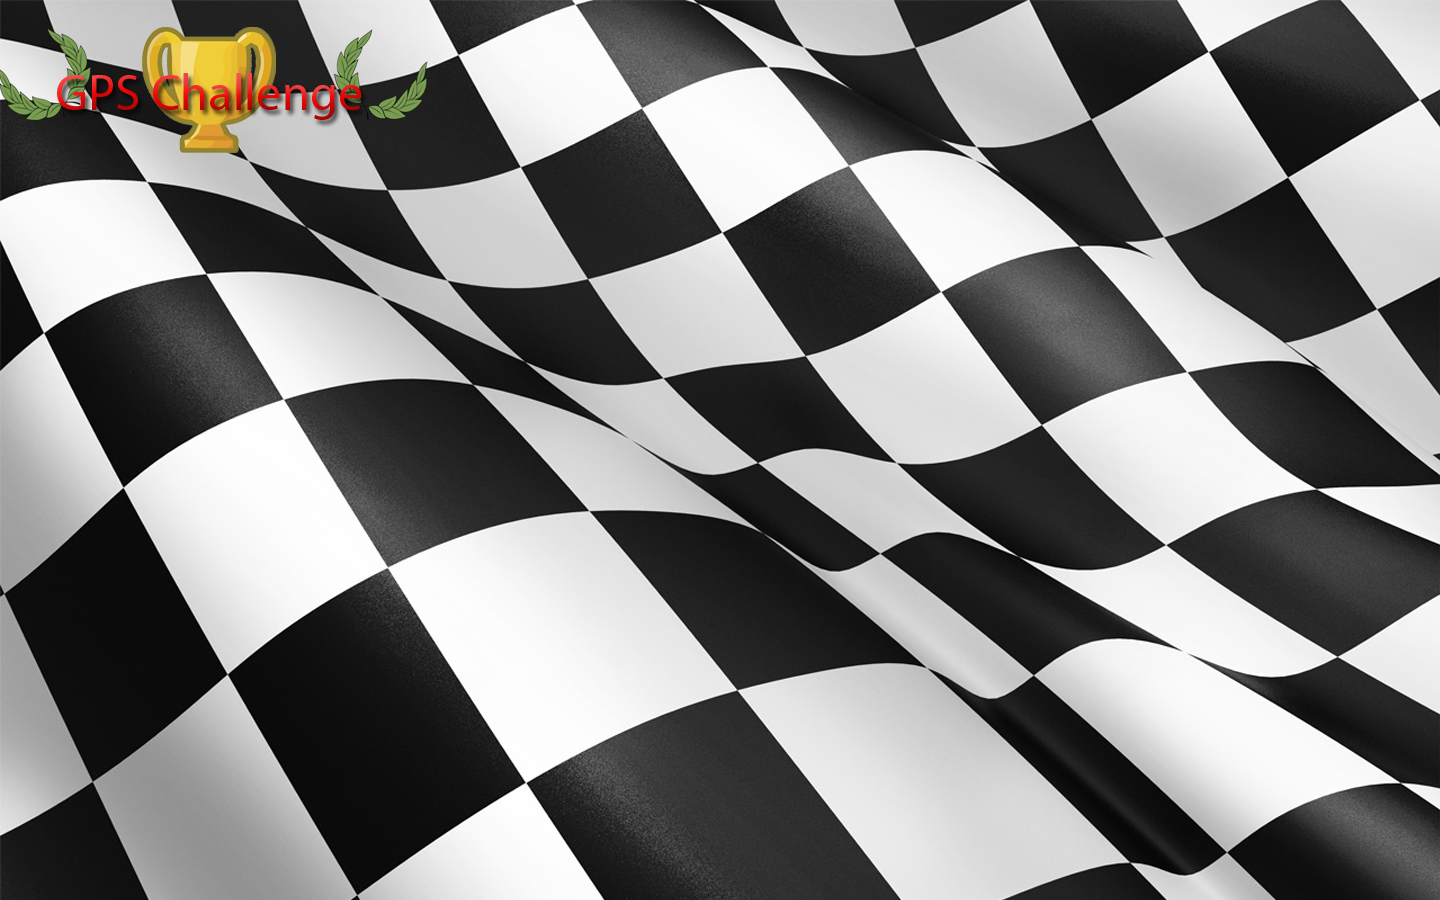
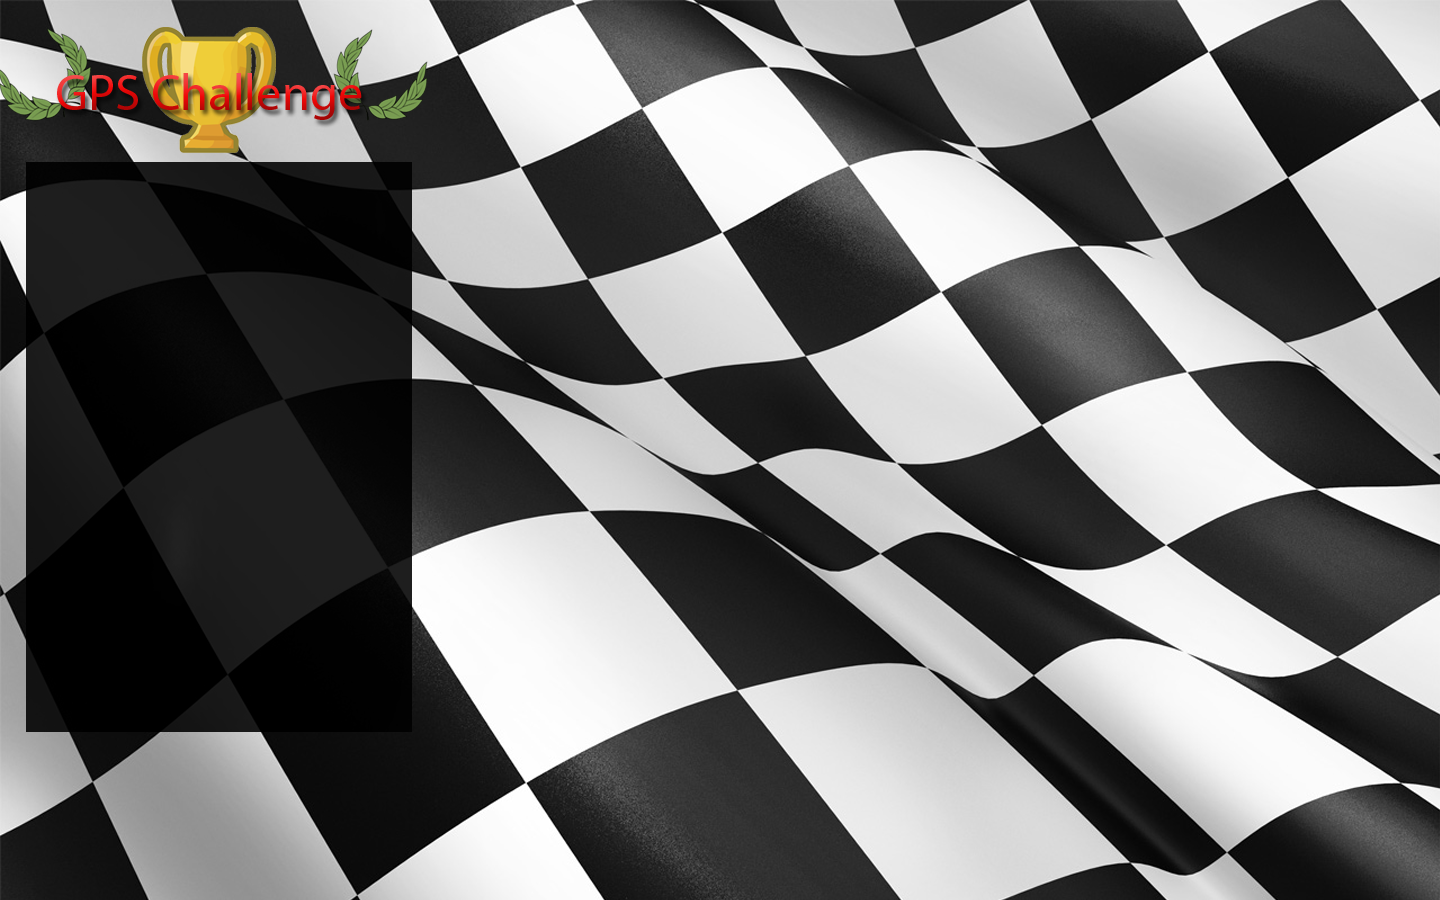
Actualizando un poco la vista de los menues

Changed region(s): [[0.0, 0.1556, 0.3125, 0.84], [0.0, 0.7156, 0.0625, 0.8089]]

diff --git a/src/fiuba/algo3/control/gpsChallenge.java b/src/fiuba/algo3/control/gpsChallenge.java
@@ -49,18 +49,18 @@ public class gpsChallenge {
         /** Stage 1 : Eleccion Usuario --------------------------------------------------------------------**/
 
         /** boton Soy Nuevo -> stage 1.A **/
-        Boton botonSoyNuevo = new BotonSoyNuevo(unMarco,30,150,369,80);
+        Boton botonSoyNuevo = new BotonSoyNuevo(unMarco,35,170,369,80);
         botonSoyNuevo.setVisible(true);
 
 
         /** boton Ingresar Usuario -> stage 1.B **/
-        Boton botonIngresarUsuario = new BotonIngresarUsuario(unMarco,30,250,369,80);
+        Boton botonIngresarUsuario = new BotonIngresarUsuario(unMarco,35,280,369,80);
         botonIngresarUsuario.setVisible(true);
 
         /** Stage 1.A : Usuario Nuevo ----------------------------------**/
 
         /** texto mensajeParaUsuarioNuevo **/
-        Texto mensajeParaUsuarioNuevo = new Texto(unMarco,40,200,380,40);
+        Texto mensajeParaUsuarioNuevo = new Texto(unMarco,35,200,380,40);
         mensajeParaUsuarioNuevo.setMensaje("Por favor, eliga un nombre (10 caracteres max)");
         // ponerle color, o reemplazar por imagen
         mensajeParaUsuarioNuevo.setVisible(false);
@@ -70,7 +70,7 @@ public class gpsChallenge {
         areaIngresoNombreDelUsuario.setVisible(false);
 
         /** botonGuardar -> stage 2 **/
-        Boton botonGuardar = new BotonGuardar(unMarco,30,300,369,80);
+        Boton botonGuardar = new BotonGuardar(unMarco,35,325,369,80);
         botonGuardar.setVisible(false);
 
         /** Stage 1.B : Cargar Usuario ----------------------------------**/
@@ -87,41 +87,41 @@ public class gpsChallenge {
         boxUsuariosExistentes.setVisible(false);
 
         /** botonAceptar -> stage 2 **/
-        Boton botonAceptar = new BotonAceptar (unMarco,30,400,369,80);
+        Boton botonAceptar = new BotonAceptar (unMarco,35,400,369,80);
         botonAceptar.setVisible(false);
 
 
         /** Stage 2 : Menu Principal --------------------------------------------------------------------**/
 
         /** botonComenzarPartida -> stage 2.A **/
-        Boton botonComenzarPartida = new BotonComenzarPartida(unMarco,30,150,369,80);
+        Boton botonComenzarPartida = new BotonComenzarPartida(unMarco,35,170,369,80);
         botonComenzarPartida.setVisible(false);
 
         /** botonReanudarPartidaGuardada -> carga Xmlmapa y acciona el juego **/
         /** todo **/
-        Boton botonReanudarPartidaGuardada = new BotonReanudarPartidaGuardada(unMarco,30,250,369,80);
+        Boton botonReanudarPartidaGuardada = new BotonReanudarPartidaGuardada(unMarco,35,280,369,80);
         botonReanudarPartidaGuardada.setVisible(false);
 
         /** botonVerPuntajes -> stage 2.B **/
-        Boton botonVerPuntajes = new BotonVerPuntajes(unMarco,30,350,369,80);
+        Boton botonVerPuntajes = new BotonVerPuntajes(unMarco,35,390,369,80);
         botonVerPuntajes.setVisible(false);
 
         /** Stage 2.A : Eleccion Mapa y Carruaje ----------------------------------**/
 
         /** checkBoxEleccionMapa **/
-        BoxEleccionMapa boxEleccionMapa = new BoxEleccionMapa(unMarco,200,165,100,60);
+        BoxEleccionMapa boxEleccionMapa = new BoxEleccionMapa(unMarco,250,170,100,60);
         boxEleccionMapa.setVisible(false);
 
         /** checkBoxEleccionVehiculo **/
-        BoxEleccionVehiculo boxEleccionVehiculo = new BoxEleccionVehiculo(unMarco,30,165,150,60);
+        BoxEleccionVehiculo boxEleccionVehiculo = new BoxEleccionVehiculo(unMarco,40,170,150,60);
         boxEleccionVehiculo.setVisible(false);
 
         /** botonJugar -> acciona el juego, pasa al stage 3 **/
-        Boton botonJugar = new BotonJugar(unMarco,30,370,369,80);
+        Boton botonJugar = new BotonJugar(unMarco,35,400,369,80);
         botonJugar.setVisible(false);
 
         /** botonVolver Stage 2.A --> Stage 2, Menu Principal**/
-        Boton botonVolverAlMenuPrincipalDesdeEleccionMapaYVehiculo = new BotonVolver(unMarco,30,580,369,80);
+        Boton botonVolverAlMenuPrincipalDesdeEleccionMapaYVehiculo = new BotonVolver(unMarco,35,640,369,80);
         botonVolverAlMenuPrincipalDesdeEleccionMapaYVehiculo.setVisible(false);
 
 
@@ -135,7 +135,7 @@ public class gpsChallenge {
         boxUsuariosConPuntajes.setVisible(false);
 
         /** botonVolverAlMenuPrincipalDesdePuntajes Stage 2.A --> Stage 2, Menu Principal**/
-        Boton botonVolverAlMenuPrincipalDesdePuntajes = new BotonVolver(unMarco,30,580,369,80);
+        Boton botonVolverAlMenuPrincipalDesdePuntajes = new BotonVolver(unMarco,35,640,369,80);
         botonVolverAlMenuPrincipalDesdePuntajes .setVisible(false);
 
 
@@ -145,13 +145,17 @@ public class gpsChallenge {
         /** botonAnimadoCronometro **/
 
         /** vistaCronometro **/
-        VistaCronometro vistaCronometro = new VistaCronometro(unJuego.getPiloto().getCronometro(),unMarco,100,500,300,40);
+        Texto textoCronometro = new Texto(unMarco,40,170,380,40);
+        textoCronometro.setMensaje("Tiempo");
+        textoCronometro.setVisible(false);
+
+        VistaCronometro vistaCronometro = new VistaCronometro(unJuego.getPiloto().getCronometro(),unMarco,100,220,300,40);
         unJuego.asignarVistaAlCronometro(vistaCronometro);
         vistaCronometro.setVisible(false);
 
 
         /** botonAnimadoVehiculo **/
-        BotonAnimadoVehiculo botonAnimadoVehiculo = new BotonAnimadoVehiculo(unJuego,unMarco,120,330,369,150);
+        BotonAnimadoVehiculo botonAnimadoVehiculo = new BotonAnimadoVehiculo(unJuego,unMarco,40,450,369,150);
         botonAnimadoVehiculo.setVisible(false);
 
         /**VistaFinalizada**/
@@ -162,7 +166,7 @@ public class gpsChallenge {
         //Boton botonGuardarPartida = new BotonGuardar()
 
         /** botonVolverMenuPrincipalDesdeJuegoEnAccion **/
-        Boton botonVolverMenuPrincipalDesdeJuegoEnAccion = new BotonVolver(unMarco,30,580,369,80);
+        Boton botonVolverMenuPrincipalDesdeJuegoEnAccion = new BotonVolver(unMarco,35,640,369,80);
         botonVolverMenuPrincipalDesdeJuegoEnAccion.setVisible(false);
 
 
@@ -235,6 +239,7 @@ public class gpsChallenge {
 
         /** Stage 3 : Juego en Accion **/
         ArrayList<VistaMenu> stageJuegoEnAccion = new ArrayList<VistaMenu>();
+        stageJuegoEnAccion.add(textoCronometro);
         stageJuegoEnAccion.add(vistaCronometro);
         stageJuegoEnAccion.add(botonAnimadoVehiculo);
         stageJuegoEnAccion.add(vistaFinalizacion);
@@ -291,7 +296,7 @@ public class gpsChallenge {
 
         /** musica de fondo, tiene que ir al final **/
 
-        MusicaDeFondo.playMusic();
+        //MusicaDeFondo.playMusic();
 
     }
 
